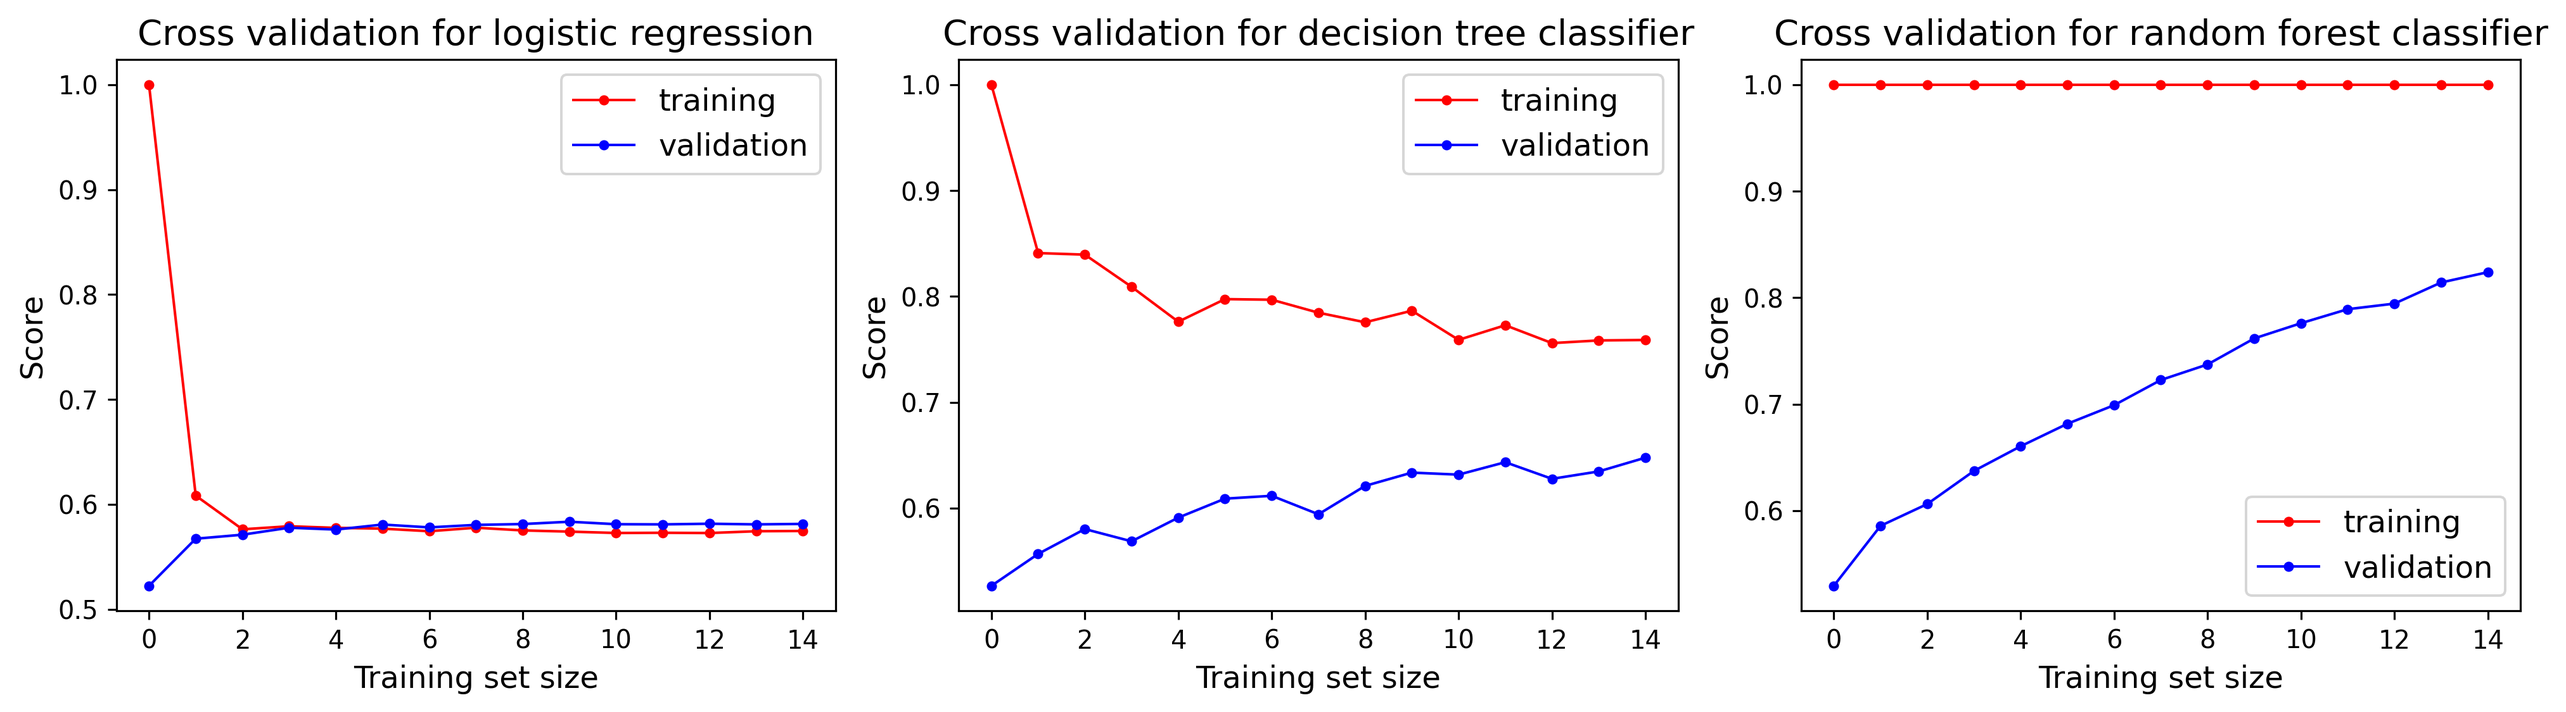
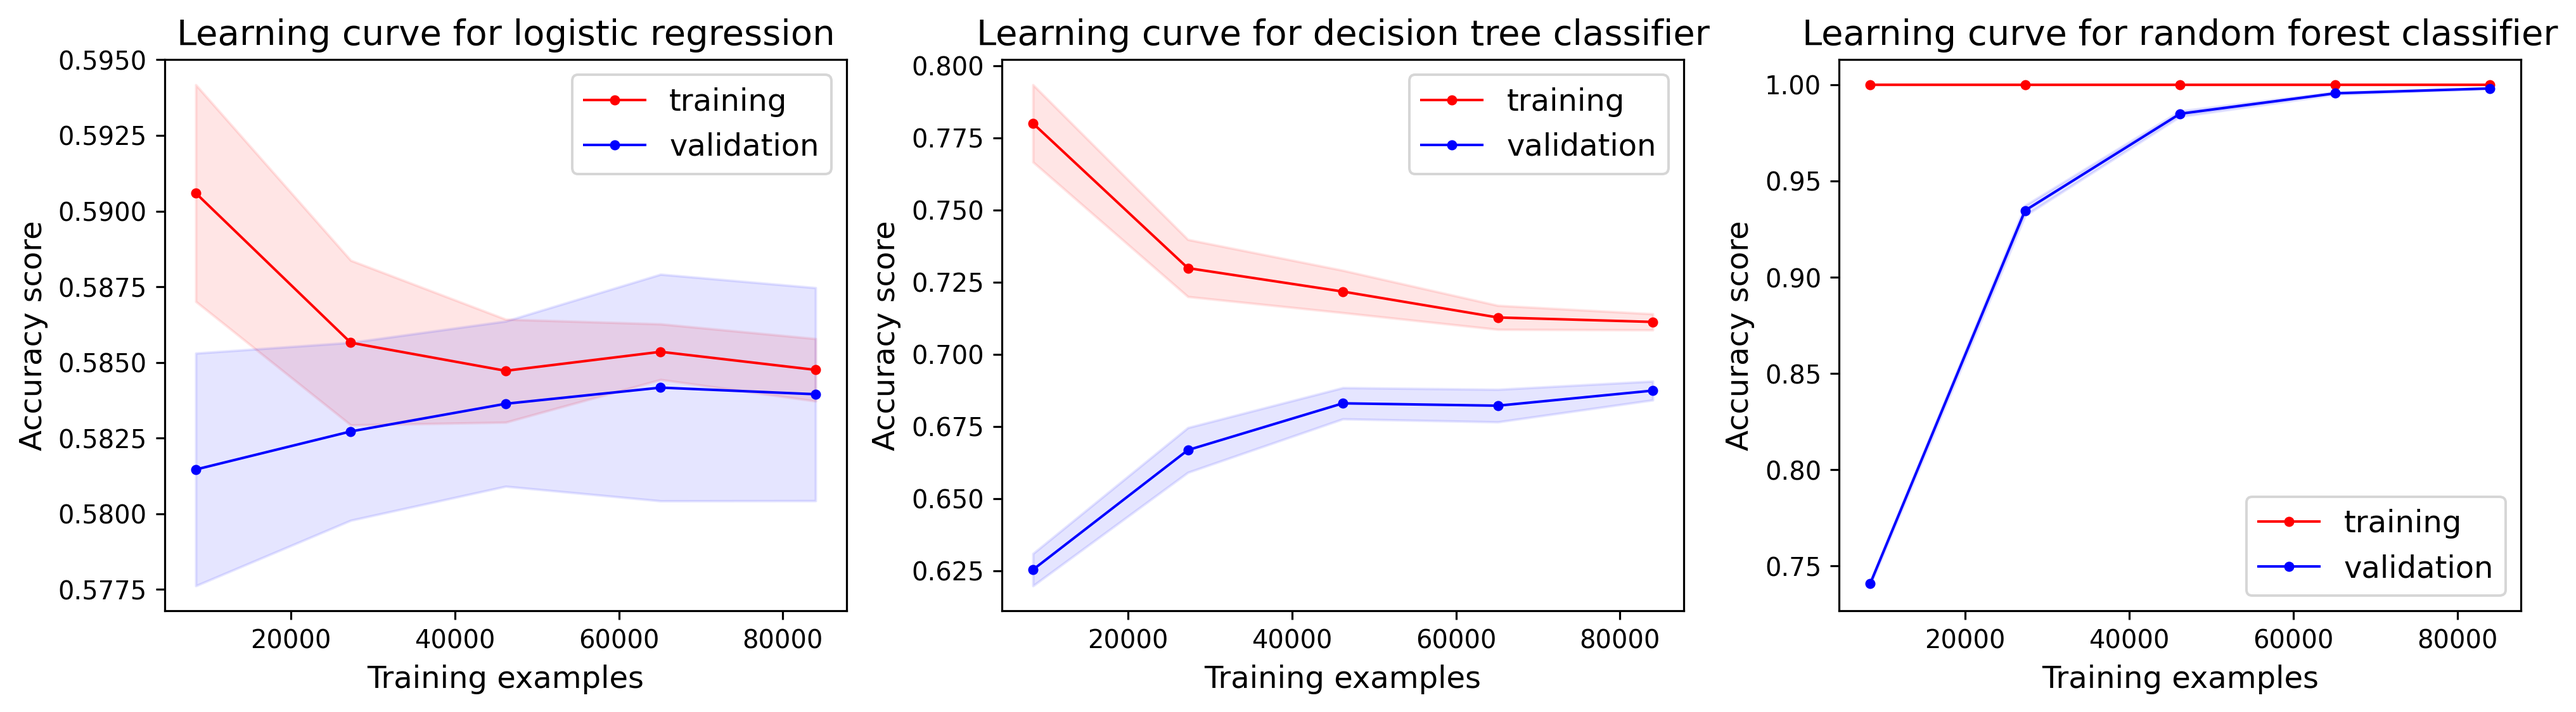
Learning curves for LR, DT and RF classifiers with error bands using learning_curve

diff --git a/learning_curves_plot.py b/learning_curves_plot.py
@@ -6,8 +6,7 @@ import numpy as np
 import pandas as pd
 import matplotlib.pyplot as plt
 from time import time
-from sklearn.metrics import accuracy_score
-from sklearn.model_selection import train_test_split
+from sklearn.model_selection import learning_curve, ShuffleSplit
 from sklearn.ensemble import RandomForestClassifier
 from sklearn.tree import DecisionTreeClassifier
 from sklearn.linear_model import LogisticRegression
@@ -16,26 +15,24 @@ home = os.environ['HOME']
 work_dir = Path(home) / 'Programming/Python/machine-learning-exercises/diabetes-in-130-US-hospitals'
 df = pd.read_csv(work_dir / 'data/df_encoded.csv')
 
-df = df.sample(frac=0.2)
+# df = df.sample(frac=0.2)
+t0 = time()
 X = df.drop('readmitted', axis=1)
 y = df.loc[:, 'readmitted']
 
+cv = ShuffleSplit(n_splits=5, test_size=0.2, random_state=42)
+train_sizes = np.linspace(.1, 1.0, 5)
 
-def learning_curves_data(model, X, y):
-    X_train, X_val, y_train, y_val = train_test_split(X, y, test_size=0.3, random_state=42)
-    train_scores_means, train_scores_std = np.array([]), np.array([])
-    val_scores_means, val_scores_std = np.array([]), np.array([])
-    for m in range(6, len(X_train), 1000):
-        model.fit(X_train.iloc[:m], y_train.iloc[:m])
-        y_train_predict = model.predict(X_train.iloc[:m])
-        y_val_predict = model.predict(X_val)
-        train_scores = accuracy_score(y_train.iloc[:m], y_train_predict)
-        train_scores_means = np.append(train_scores_means, train_scores.mean())
-        train_scores_std = np.append(train_scores_std, train_scores.std())
-        val_scores = accuracy_score(y_val, y_val_predict)
-        val_scores_means = np.append(val_scores_means, val_scores.mean())
-        val_scores_std = np.append(val_scores_std, val_scores.std())
-    return train_scores_means, train_scores_std, val_scores_means, val_scores_std
+
+def learning_curves_data(estimator, X, y, cv=cv, train_sizes=train_sizes):
+    train_sizes, train_scores, val_scores = learning_curve(estimator, X, y, cv=cv, n_jobs=-1,
+                                                           train_sizes=train_sizes,
+                                                           scoring='accuracy')
+    train_scores_mean = np.mean(train_scores, axis=1)
+    train_scores_std = np.std(train_scores, axis=1)
+    val_scores_mean = np.mean(val_scores, axis=1)
+    val_scores_std = np.std(val_scores, axis=1)
+    return train_sizes, train_scores_mean, train_scores_std, val_scores_mean, val_scores_std
 
 
 model_dict = {'Logistic regression': LogisticRegression(n_jobs=-1, solver='newton-cg'),
@@ -43,14 +40,10 @@ model_dict = {'Logistic regression': LogisticRegression(n_jobs=-1, solver='newto
               'Random forest classifier': RandomForestClassifier(n_jobs=-1, random_state=42,
                                                                  max_depth=40, n_estimators=500)}
 
-t0 = time()
 fig, axes = plt.subplots(1, 3, figsize=(14, 4))
 for ax, (model_name, model_instance) in zip(axes, model_dict.items()):
     means_std_list = learning_curves_data(model_instance, X, y)
-    train_scores_means, train_scores_std, val_scores_means, val_scores_std = means_std_list
-    print(f'train_scores_std: {train_scores_std}')
-    print(f'val_scores_std: {val_scores_std}')
-    train_sizes = np.arange(len(train_scores_means))
+    train_sizes, train_scores_means, train_scores_std, val_scores_means, val_scores_std = means_std_list
     ax.fill_between(train_sizes, train_scores_means - train_scores_std,
                     train_scores_means + train_scores_std, alpha=0.1, color='r')
     ax.fill_between(train_sizes, val_scores_means - val_scores_std,
@@ -58,9 +51,9 @@ for ax, (model_name, model_instance) in zip(axes, model_dict.items()):
     ax.plot(train_sizes, train_scores_means, 'r.-', linewidth=1, label='training')
     ax.plot(train_sizes, val_scores_means, 'b.-', linewidth=1, label='validation')
     ax.legend(loc='best', fontsize=12)
-    ax.set_title('Cross validation for {0:s}'.format(model_name.lower()), fontsize=14)
-    ax.set_xlabel('Training set size', fontsize=12)
-    ax.set_ylabel('Score', fontsize=12)
+    ax.set_title('Learning curve for {0:s}'.format(model_name.lower()), fontsize=14)
+    ax.set_xlabel('Training examples', fontsize=12)
+    ax.set_ylabel('Accuracy score', fontsize=12)
 fig.tight_layout()
 plt.savefig(work_dir / 'plots/learning_curves_plot_with_err_bands.png', dpi=288, bbox_inches='tight')
 print(f'Time elapsed: {(time() - t0):.2f} seconds')
